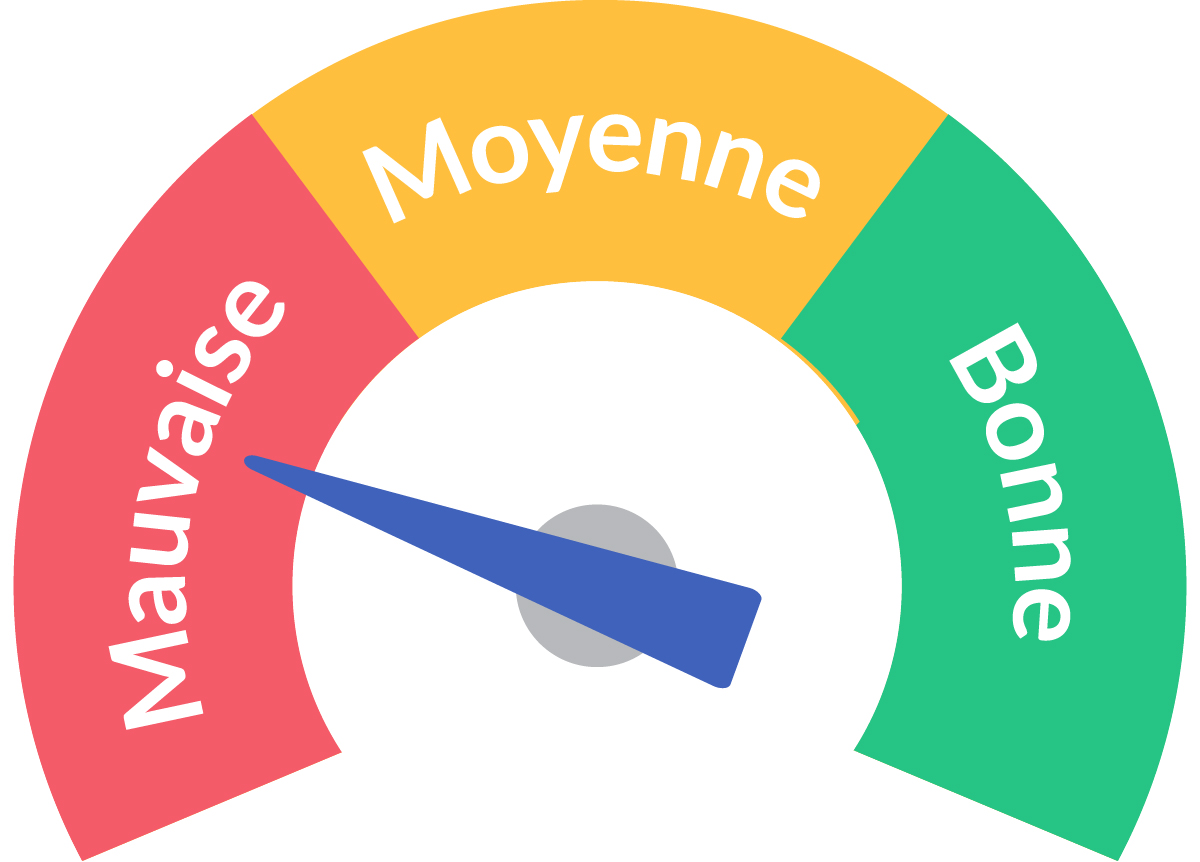
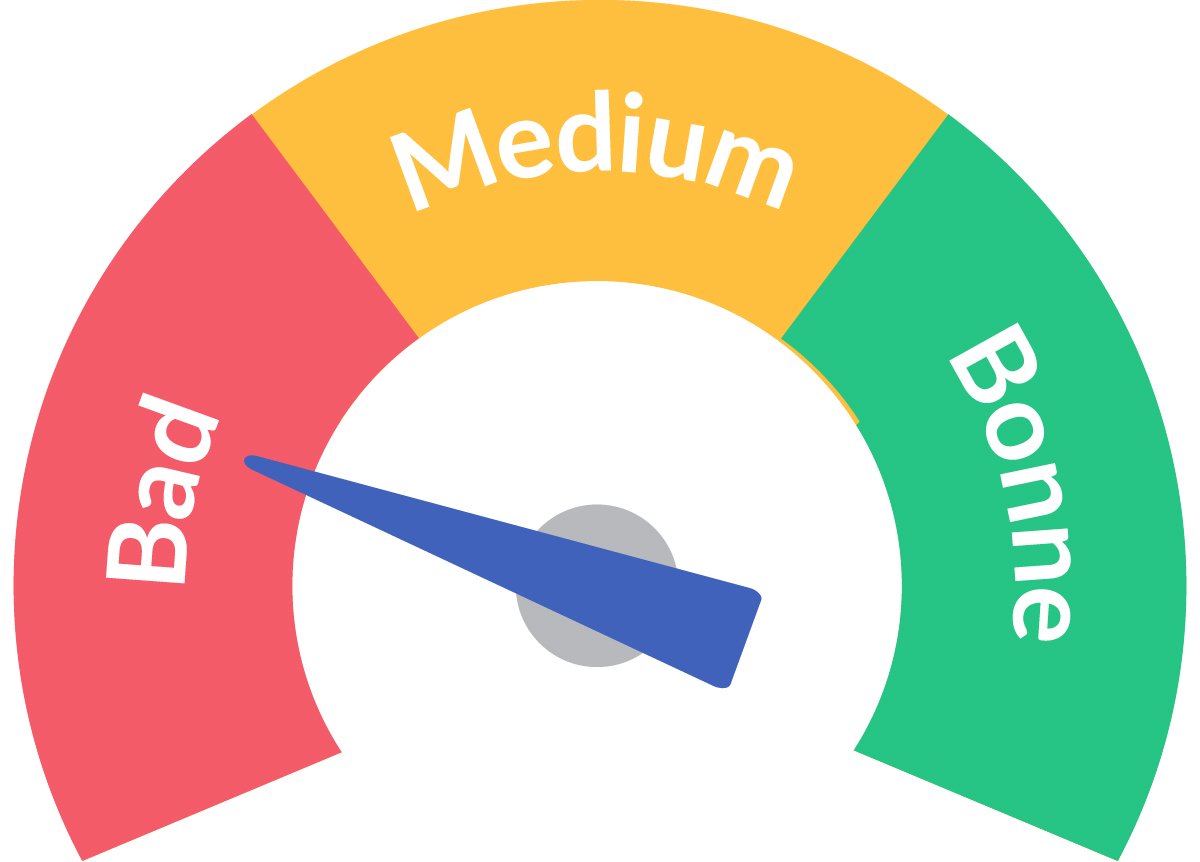
translated all pages text to english

Changed region(s): [[0.0617, 0.3318, 0.2467, 0.8445], [0.3083, 0.0905, 0.6783, 0.2715]]

diff --git a/droptap-app/src/Pages/Parametres.js b/droptap-app/src/Pages/Parametres.js
@@ -69,7 +69,7 @@ const Settings = () => {
         <Grid templateColumns='repeat(9, 1fr)' templateRows='repeat(20, 1fr)' gap={4} >
             <GridItem colSpan={6} rowSpan={1}>
                 <Heading as="h1" size="md" fontWeight="600">
-                    Parametres
+                    Settings
                 </Heading>
             </GridItem>
             <GridItem colSpan={3} rowSpan={1}>
@@ -82,7 +82,7 @@ const Settings = () => {
                 <Box w='100%' p={8} bg="white" borderRadius="20px" >
                     <div className='profile'>
                     <Heading as="h3" size="sm" fontWeight="600">
-                    Nom Prenom/Code du produit
+                    First Name Last Name/Product code
                 </Heading>
                 <Text>E-mail</Text>
                 {/* Modification des Parametres */}
@@ -96,12 +96,12 @@ const Settings = () => {
           <ModalBody>
             {/* Formulaire de modification */}
           <FormControl>
-          <FormLabel>Code Produit</FormLabel>
+          <FormLabel>Product code</FormLabel>
   <Input type='text'  value={"qwert12345678"} isDisabled={true}/>
-  <FormHelperText>Code de votre produit il n'est pas modifiable</FormHelperText><br/>
+  <FormHelperText>Your product code. It is not changeable</FormHelperText><br/>
   <FormLabel>E-mail</FormLabel>
   <Input type='text' placeholder='E-mail'/>
-  <FormHelperText>Votre email sera utilise pour la recuperation de votre mot de passe</FormHelperText><br/>
+  <FormHelperText>Your email will be used to reset your password.</FormHelperText><br/>
   <FormLabel>Password</FormLabel>
   <InputGroup size='md'>
   <Input
@@ -115,7 +115,7 @@ const Settings = () => {
         </Button>
       </InputRightElement>
       </InputGroup>
-  <FormHelperText>Modifier le mot de passe</FormHelperText>
+  <FormHelperText>Change password</FormHelperText>
 </FormControl>
           </ModalBody>
           <ModalFooter>
@@ -132,30 +132,30 @@ const Settings = () => {
                     </div>
                     <Table>
                     <Heading as="h1" size="md" fontWeight="600">
-                    Parametres technique
+                    Technical settings
                 </Heading>
                 <br/>
                         <Tr>
-                            <Td>Detection de fuite</Td>
+                            <Td>Leak detection</Td>
                             <Td><Switch></Switch></Td>
                         </Tr>
                         <Tr>
-                            <Td>Remote-Robinet</Td>
+                            <Td>Water shutoff</Td>
                             <Td><Switch></Switch></Td>
                         </Tr>
                         <Tr>
-                            <Td>Seuil de consommation</Td>
+                            <Td>Consumption limit</Td>
                             <Td>{seuilJour}L <Button bg="transparent" onClick={onSecondModalOpen}><CiEdit /></Button>
                             <Modal blockScrollOnMount={false} isOpen={isSecondModalOpen} onClose={onSecondModalClose} closeOnOverlayClick={false} >
         <ModalOverlay />
         <ModalContent>
-          <ModalHeader>Seuil de Consommation</ModalHeader>
+          <ModalHeader>Consumption limit</ModalHeader>
           <ModalCloseButton />
           <ModalBody>
           <FormControl>
-  <FormLabel>Seuil de consommation</FormLabel>
+  <FormLabel>Consumption limit</FormLabel>
   <Input type='text' placeholder={seuilJour} onChange={(e)=>setInputSeuil(e.target.value)} />
-  <FormHelperText>Veuillez entrez la consommation du mois</FormHelperText>
+  <FormHelperText>Please set your daily consumption limit</FormHelperText>
 </FormControl>
           </ModalBody>
           <ModalFooter>
@@ -169,32 +169,32 @@ const Settings = () => {
                             </Td>
                         </Tr>
                         <br/>
-                        <Heading as="h1" size="md" fontWeight="600">Parametres de Notifications</Heading>
+                        <Heading as="h1" size="md" fontWeight="600">Notification settings</Heading>
                 <br/>
                 <Tr>
-                            <Td>Alerte de fuite</Td>
+                            <Td>Leak alert</Td>
                             <Td><Switch></Switch></Td>
                         </Tr>
                         <Tr>
-                            <Td>Alerte de seuil</Td>
+                            <Td>Consumption limit alert</Td>
                             <Td><Switch></Switch></Td>
                         </Tr>
                         <Tr>
-                            <Td>Alerte qualite</Td>
+                            <Td>Water quality alert</Td>
                             <Td><Switch></Switch></Td>
                         </Tr><br/>
                         <Heading as="h1" size="md" fontWeight="600">General</Heading>
                 <br/>
                 <Tr>
-                    <Td>Contactez-nous</Td>
+                    <Td>Contact us</Td>
                     <Td></Td>
                     </Tr>
                         <Tr>
-                            <Td>Termes et conditions</Td>
+                            <Td>Terms and conditions</Td>
                             <Td></Td>
                         </Tr>
                         <Tr>
-                            <Td>Politique de confidentialite</Td>
+                            <Td>Privacy policy</Td>
                             <Td></Td>
                         </Tr>
                     </Table>

diff --git a/droptap-app/src/Pages/Accueil.js b/droptap-app/src/Pages/Accueil.js
@@ -248,7 +248,7 @@ function Accueil() {
             >
                 <GridItem colSpan={5} rowSpan={1}>
                     <Heading as="h1" size="md" fontWeight="600">
-                        Ma consommation
+                        My consumption
                     </Heading>
                 </GridItem>
                 <GridItem colSpan={1} rowSpan={1}>
@@ -267,7 +267,7 @@ function Accueil() {
                         <ProgressBar
                             conso={consoJour}
                             seuil={seuilJour}
-                            titre="Aujourd'hui"
+                            titre="Today"
                             date={today}
                         />
                     </Box>
@@ -284,7 +284,7 @@ function Accueil() {
                         <ProgressBar
                             conso={consoMois}
                             seuil={seuilMois}
-                            titre="Ce mois"
+                            titre="This month"
                             date={thisMonth}
                         />
                     </Box>
@@ -298,7 +298,7 @@ function Accueil() {
                         bg="white"
                     >
                         <VStack>
-                            <Text fontSize="sm">Robinet</Text>
+                            <Text fontSize="sm">Water shutoff</Text>
                             <Switch
                                 size="lg"
                                 isChecked={robinet && "isChecked"}
@@ -326,7 +326,7 @@ function Accueil() {
                     >
                         <VStack>
                             <Text fontSize="sm" align="center">
-                                Détection des fuites
+                                Leak detection
                             </Text>
                             <Switch
                                 size="lg"
@@ -339,13 +339,13 @@ function Accueil() {
 
                 <GridItem colSpan={3} rowSpan={1}>
                     <Heading as="h1" size="md" fontWeight="600">
-                        Qualité de l'eau
+                        Water quality
                     </Heading>
                 </GridItem>
 
                 <GridItem colSpan={3} rowSpan={1}>
                     <Heading as="h1" size="md" fontWeight="600">
-                        Statistiques
+                        Statistics
                     </Heading>
                 </GridItem>
 
@@ -361,8 +361,7 @@ function Accueil() {
                             <HStack>
                                 <Image h="150px" pr={4} src={QualityGood} />
                                 <Text>
-                                    Vous pouvez boire l'eau du robinet sans
-                                    problème.
+                                    You can drink tap water safely.
                                 </Text>
                             </HStack>
                         )}
@@ -370,15 +369,14 @@ function Accueil() {
                             <HStack>
                                 <Image h="150px" pr={4} src={QualityBad} />
                                 <Text>
-                                    La qualité de l'eau est mauvaise en ce
-                                    moment.
+                                    The water quality is poor at the moment.
                                 </Text>
                             </HStack>
                         )}
                         {qualite === "medium" && (
                             <HStack>
                                 <Image h="150px" pr={4} src={QualityMedium} />
-                                <Text>La qualité de l'eau est moyenne.</Text>
+                                <Text>The water quality is average.</Text>
                             </HStack>
                         )}
                     </Box>

diff --git a/droptap-app/src/Components/Notifications.js b/droptap-app/src/Components/Notifications.js
@@ -6,6 +6,33 @@ import { IoAlertCircle } from "react-icons/io5";
 function NotificationItem() {
     const NotificationList = [
         {
+            title: "A leak has been detected.",
+            type: "red",
+            description: "Please take action as soon as possible.",
+            date: "Tuesay, November 12 - 13h00",
+        },
+
+        {
+            title: "Water quality has dropped below the threshold.",
+            type: "yellow",
+            description: "",
+            date: "Tuesay, November 12 - 13h00",
+        },
+        {
+            title: "Water quality has dropped below the threshold.",
+            type: "yellow",
+            description: "",
+            date: "Tuesay, November 12 - 13h00",
+        },
+        {
+            title: "Water quality has dropped below the threshold.",
+            type: "yellow",
+            description: "",
+            date: "Tuesay, November 12 - 13h00",
+        }
+    ];
+    const NotificationListFr = [
+        {
             title: "Une fuite a été détectée.",
             type: "red",
             description: "Veuillez intervenir au plus tôt possible.",
@@ -79,7 +106,7 @@ function NotificationItem() {
                                 align="right"
                                 mt={2}
                             >
-                                Marquer comme lu
+                                Mark as read
                             </Text>
                         </Box>
                     </HStack>

diff --git a/droptap-app/src/Pages/Login/Login.js b/droptap-app/src/Pages/Login/Login.js
@@ -89,7 +89,7 @@ export default function Login(){
                     value={password} 
                     onChange={(e)=>setPassword(e.target.value)}
                     type={show ? 'text' : 'password'} 
-                    placeholder='Mot de passe' variant='filled' mt='5' borderRadius={17} required/>
+                    placeholder='Password' variant='filled' mt='5' borderRadius={17} required/>
                 <InputRightElement w='4.5rem' mt='5'>
                 <Button h='1.75rem' size='sm' bg='gray.300' borderRadius={17} onClick={handleClick}>
                     {show ? <BiHide /> : <BiShowAlt /> }
@@ -98,11 +98,11 @@ export default function Login(){
             </InputGroup>
             <VStack justify='center' mt='5'> 
             <Button variant='link' colorScheme='blue'>
-                Mot de passe oublié?
+                Forgot your password?
             </Button>
             <Button type="submit" colorScheme='blue' 
                 w='60%' borderRadius={17} onClick={handleSubmit}>
-                Se connecter
+                Login
             </Button>
             </VStack>          
         </FormControl>

diff --git a/droptap-app/src/Components/Sidebar.js b/droptap-app/src/Components/Sidebar.js
@@ -10,10 +10,10 @@ import { NavLink } from "react-router-dom";
 import { ReactComponent as Logo } from '../Assets/Images/logo.svg';
 
 const LinkItems = [
-    { name: "Accueil", icon: BiHome, path: "/" },
-    { name: "Rapport", icon: BiBarChartSquare, path: "/rapport" },
-    { name: "Paramètres", icon: BiSliderAlt, path: "/settings" },
-    { name: "Se déconnecter", icon: BiLogOut, path: "/logout" },
+    { name: "Dashboard", icon: BiHome, path: "/" },
+    { name: "Statistics", icon: BiBarChartSquare, path: "/rapport" },
+    { name: "Settings", icon: BiSliderAlt, path: "/settings" },
+    { name: "Logout", icon: BiLogOut, path: "/logout" },
 ];
 
 const NavItem = ({ name, icon, path, children, ...props }) => {

diff --git a/droptap-app/src/Pages/Rapport.js b/droptap-app/src/Pages/Rapport.js
@@ -22,7 +22,7 @@ export default function Rapport(){
     const [userData,setUserData] = useState({
         labels: UserData.map((data) => data.hour),
         datasets: [{
-            label: "Consommation d'eau",
+            label: "Water usage",
             data: UserData.map((data) => data.hourCons),
             borderRadius: 1999,
             backgroundColor: '#55C2FF',

diff --git a/droptap-app/src/Components/Header.js b/droptap-app/src/Components/Header.js
@@ -21,7 +21,7 @@ function Header() {
                 mr="5"
             /> */}
                 <Heading size="lg" fontWeight="500">
-                    Bonjour, User
+                    Hello, User
                 </Heading>
                 <Clock />
             </Flex>
